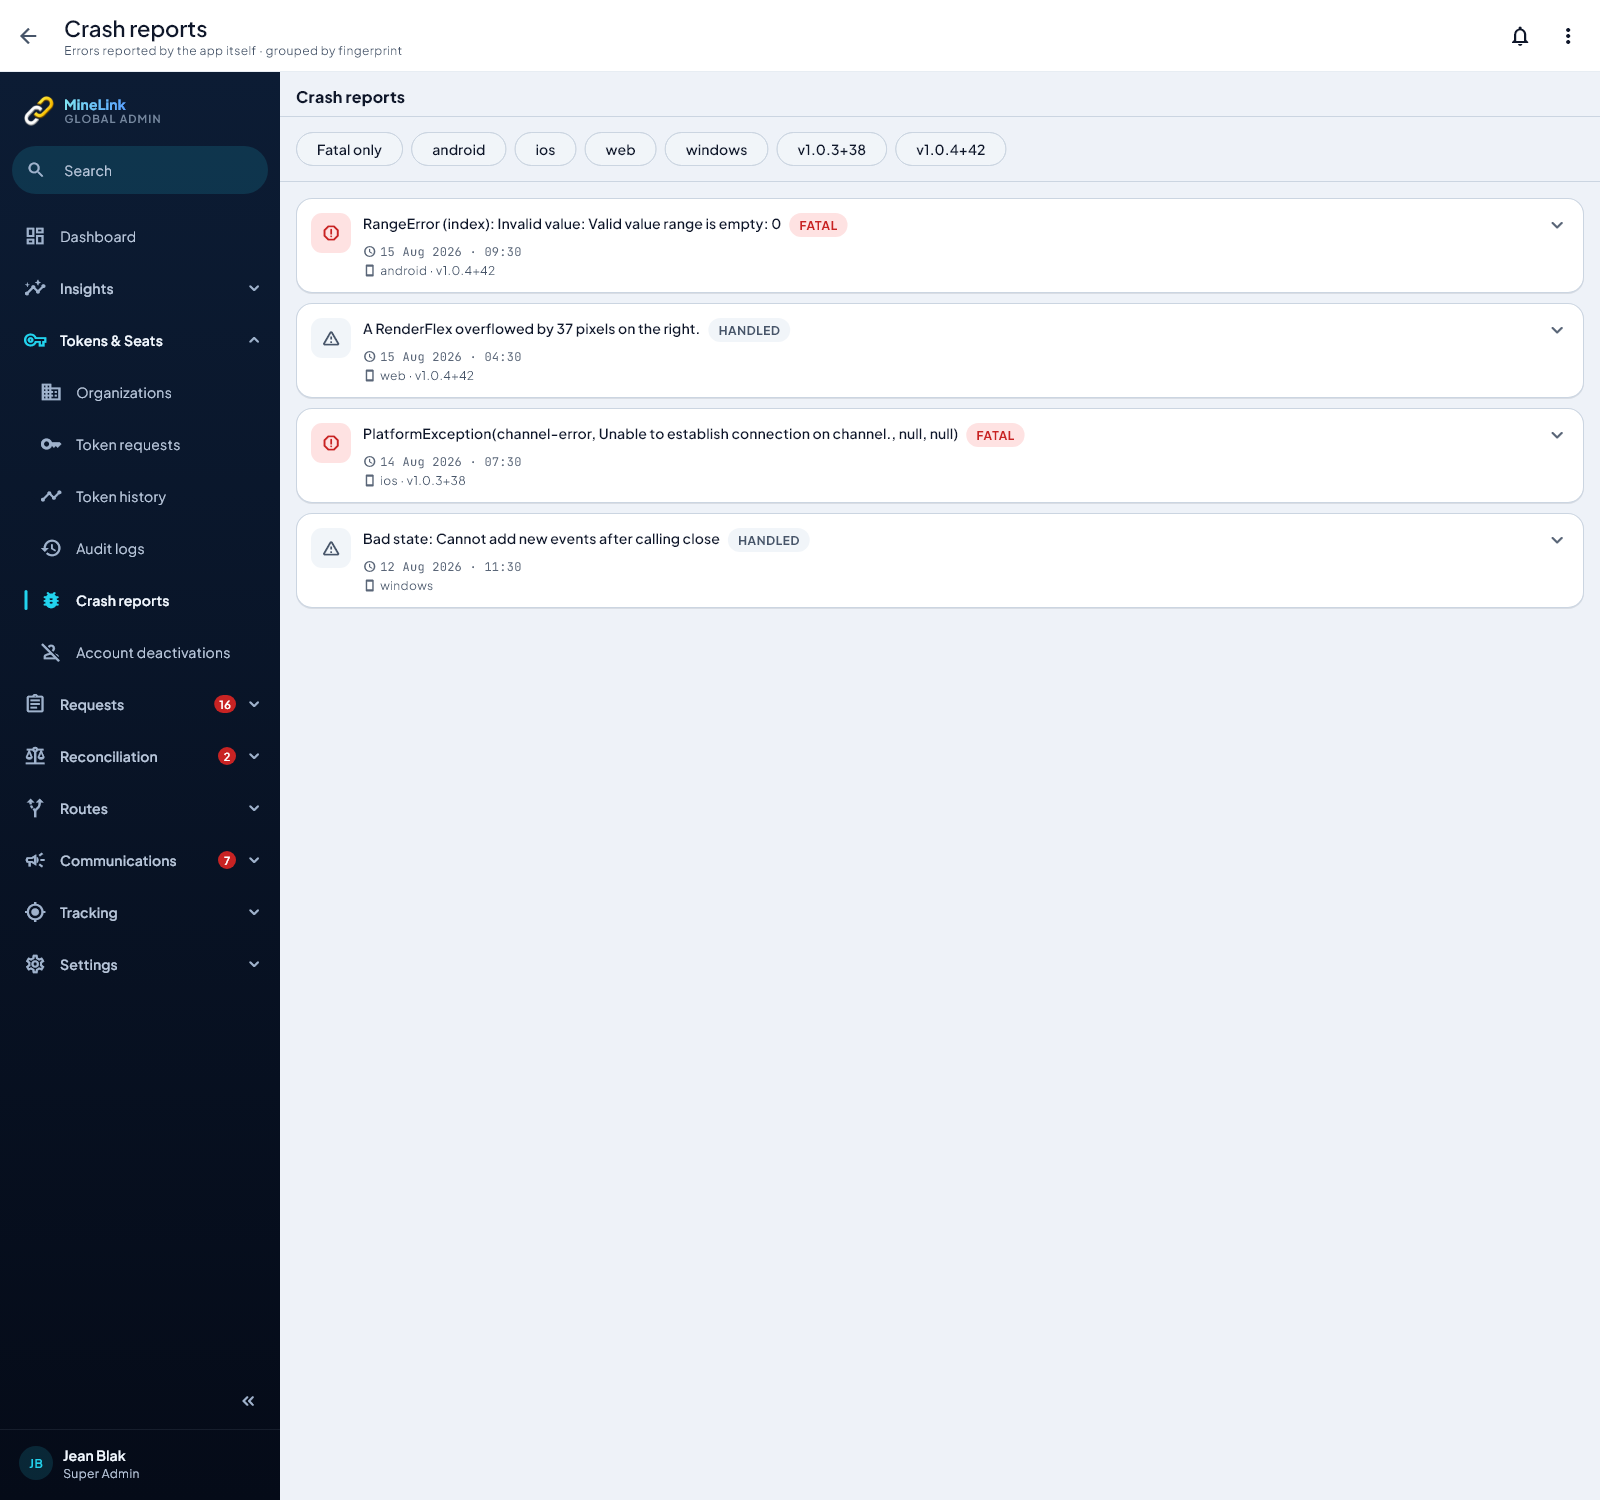
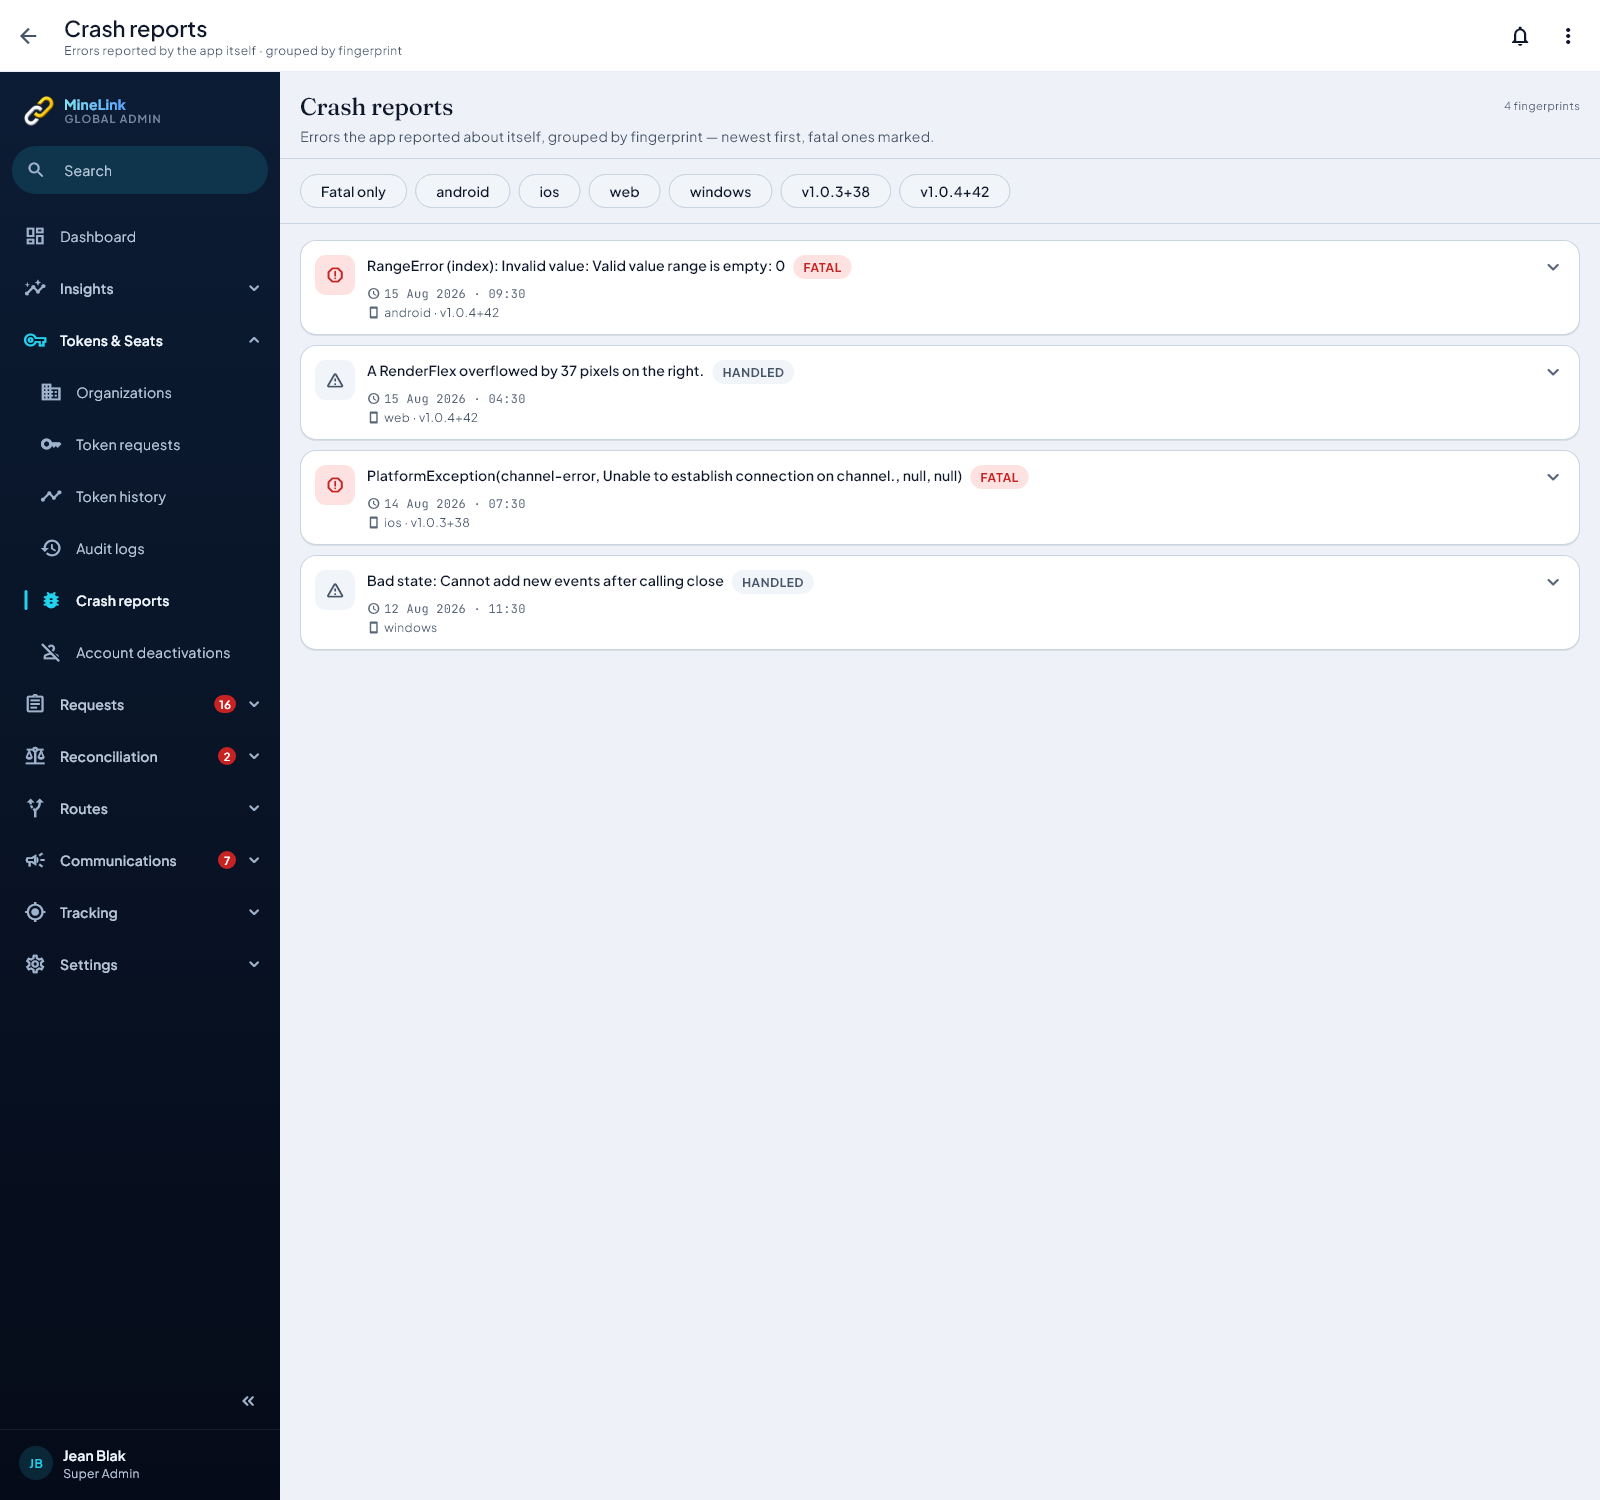
fix(console): crash reports opens in the shared page header
Hand-rolled 16px sans title, no description, no count — the same drift as
platform users and audit logs, found 2026-08-23 in the Phase 3 pass. Now
MlPageHeader with the fingerprint count as the right meta; chip row and
list padded 20 like its siblings. Pinned in crash_reports_screen_test.dart
(header present, title in MlTokens.fontSerif, meta '4 fingerprints');
sabotaged by stashing the screen: fails. Three renders regenerated and
looked at, desktop and phone.

Changed region(s): [[0.1875, 0.0613, 0.6562, 0.4293]]

diff --git a/lib/features/super_admin/screens/crash_reports_screen.dart b/lib/features/super_admin/screens/crash_reports_screen.dart
@@ -140,25 +140,22 @@ class _CrashReportsBody extends StatelessWidget {
 
   @override
   Widget build(BuildContext context) {
-    final semantic = MlSemantic.of(context);
-
     return Column(
       crossAxisAlignment: CrossAxisAlignment.stretch,
       children: [
+        // The shared page header, not a hand-rolled 16px sans title: every
+        // other console screen opens in the Fraunces display face through
+        // MlPageHeader, with a description and the count on the right.
+        // Found 2026-08-23 in the Phase 3 pass.
         Padding(
-          padding: const EdgeInsets.fromLTRB(16, 12, 16, 8),
-          child: Row(
-            children: [
-              Flexible(
-                child: Text(
-                  'Crash reports',
-                  style: context.mlText.titleMedium.copyWith(
-                    color: semantic.textStrong,
-                    fontWeight: FontWeight.w800,
-                  ),
-                ),
-              ),
-            ],
+          padding: const EdgeInsets.fromLTRB(20, 18, 20, 12),
+          child: MlPageHeader(
+            title: 'Crash reports',
+            description:
+                'Errors the app reported about itself, grouped by '
+                'fingerprint — newest first, fatal ones marked.',
+            meta: mlCount(rows.length, 'fingerprint', 'fingerprints'),
+            padding: EdgeInsets.zero,
           ),
         ),
         const Divider(height: 1),
@@ -166,7 +163,7 @@ class _CrashReportsBody extends StatelessWidget {
           width: double.infinity,
           child: SingleChildScrollView(
             scrollDirection: Axis.horizontal,
-            padding: const EdgeInsets.symmetric(horizontal: 16, vertical: 8),
+            padding: const EdgeInsets.symmetric(horizontal: 20, vertical: 8),
             child: Row(
               children: [
                 FilterChip(
@@ -203,7 +200,7 @@ class _CrashReportsBody extends StatelessWidget {
                   message: 'No crash reports in the last 90 days.',
                 )
               : ListView.separated(
-                  padding: const EdgeInsets.all(16),
+                  padding: const EdgeInsets.fromLTRB(20, 16, 20, 16),
                   itemCount: rows.length,
                   separatorBuilder: (_, __) => const SizedBox(height: 10),
                   itemBuilder: (context, i) {

diff --git a/test/features/crash_reports_screen_test.dart b/test/features/crash_reports_screen_test.dart
@@ -1,3 +1,5 @@
+import 'package:flutter_application_1/core/design/components/ml_components.dart';
+import 'package:flutter_application_1/core/design/tokens/ml_tokens.dart';
 import 'package:flutter_application_1/core/theme/app_theme.dart';
 import 'package:flutter/material.dart';
 import 'package:flutter_test/flutter_test.dart';
@@ -122,6 +124,21 @@ void main() {
       );
     }
   }
+
+  testWidgets('the screen opens in the shared page header, with its count',
+      (tester) async {
+    // 'Crash reports' was a 16px PlusJakartaSans ExtraBold title set by hand
+    // while every other console screen opens in the Fraunces display face
+    // through MlPageHeader. Found 2026-08-23 in the Phase 3 pass.
+    await _pumpAt(tester, width: 1600, scale: 1.0, reports: _populatedReports);
+    final header = find.byType(MlPageHeader);
+    expect(header, findsOneWidget);
+    final title = tester.widget<Text>(
+        find.descendant(of: header, matching: find.text('Crash reports')));
+    expect(title.style?.fontFamily, MlTokens.fontSerif);
+    expect(tester.widget<MlPageHeader>(header).meta,
+        '${_populatedReports.length} fingerprints');
+  });
 
   testWidgets('expanding a fatal report scrolls its stack trace instead of '
       'widening the page', (tester) async {
